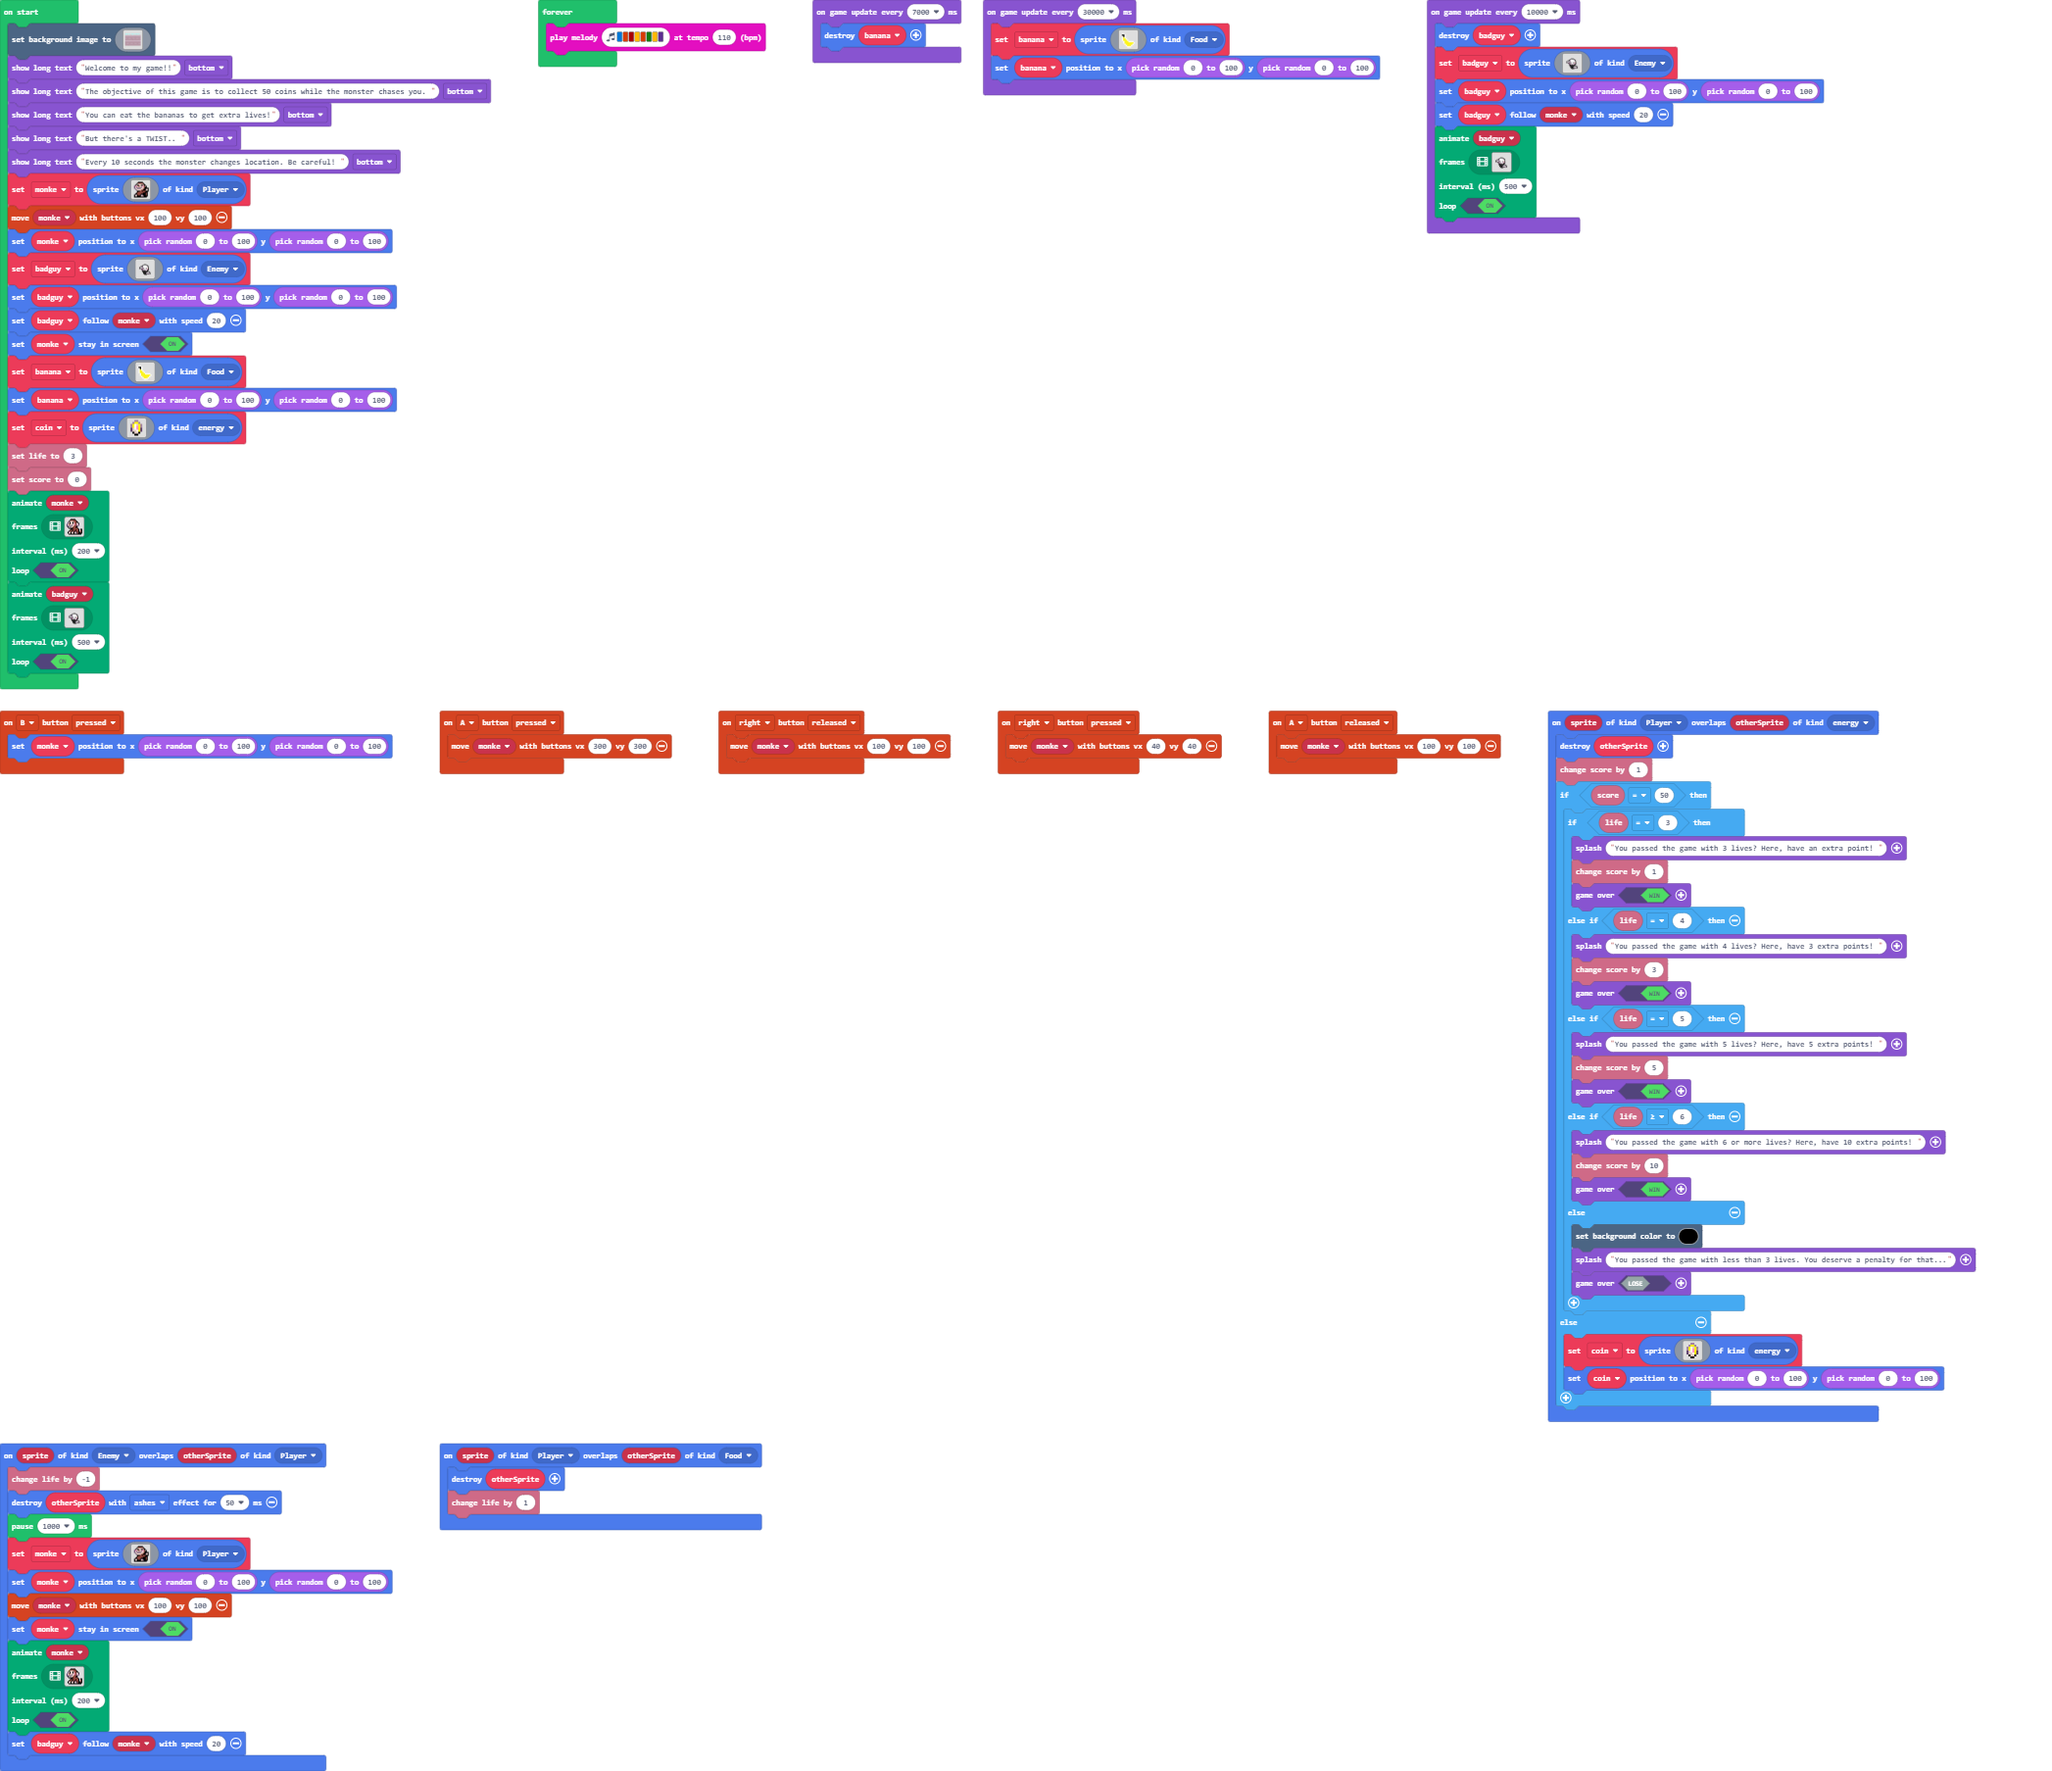
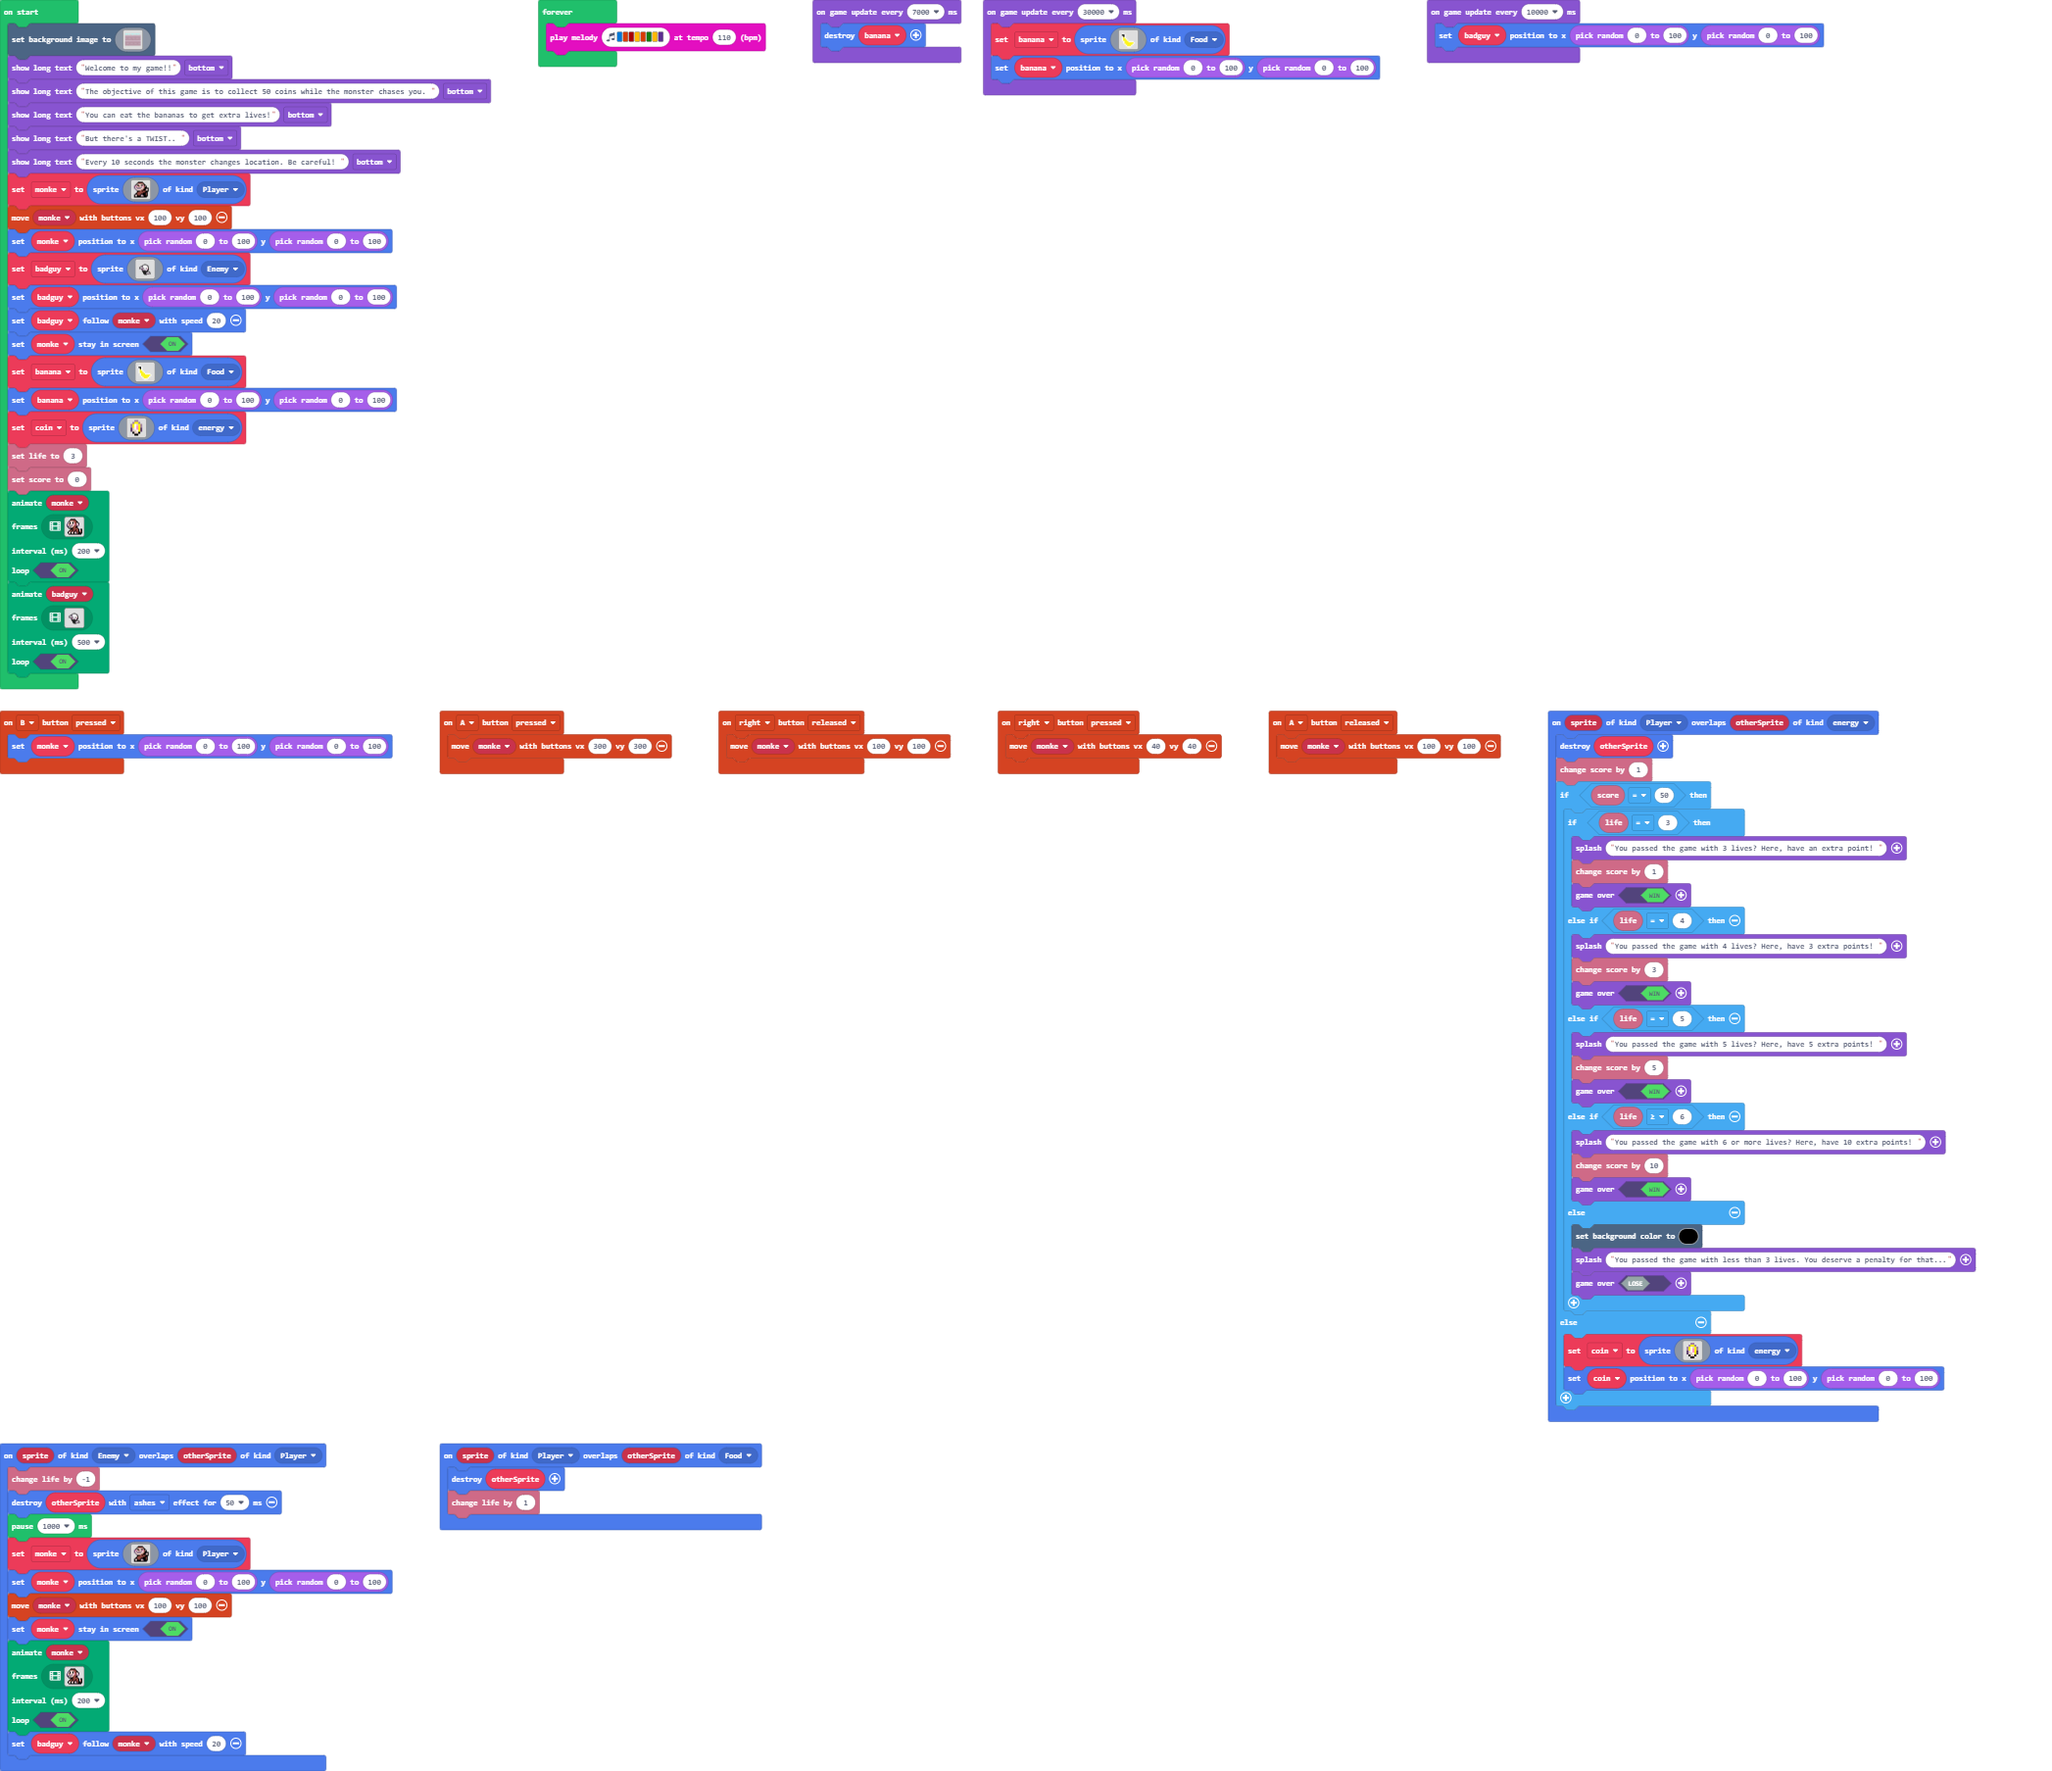
Update main.blocks, main.ts

Changed region(s): [[0.6829, 0.0, 0.9002, 0.155]]

diff --git a/main.ts b/main.ts
@@ -638,139 +638,5 @@ game.onUpdateInterval(30000, function () {
     banana.setPosition(randint(0, 100), randint(0, 100))
 })
 game.onUpdateInterval(10000, function () {
-    badguy.destroy()
-    badguy = sprites.create(img`
-        ........................
-        ........................
-        ........................
-        ........................
-        ........................
-        ..........ffff..........
-        ........ff1111ff........
-        .......fb111111bf.......
-        .....fffc1111111f.......
-        ...fc111cd1111111f......
-        ...f1b1b1b1111dddf......
-        ...fbfbffcf11fcddf......
-        ......f3311111133f......
-        .......ccbdb1b1fcf......
-        .......fffbfbfdff.......
-        ........ffffffff........
-        ........fffffffffff.....
-        .........fffffc111cf....
-        .........fffff1b1b1f....
-        ..........ffffbfbfbf....
-        ...........ffff.........
-        ........................
-        ........................
-        ........................
-        `, SpriteKind.Enemy)
     badguy.setPosition(randint(0, 100), randint(0, 100))
-    badguy.follow(monke, 20)
-    animation.runImageAnimation(
-    badguy,
-    [img`
-        ........................
-        ........................
-        ........................
-        ........................
-        ........................
-        ..........ffff..........
-        ........ff1111ff........
-        .......fb111111bf.......
-        .....fffc1111111f.......
-        ...fc111cd1111111f......
-        ...f1b1b1b1111dddf......
-        ...fbfbffcf11fcddf......
-        ......f3311111133f......
-        .......ccbdb1b1fcf......
-        .......fffbfbfdff.......
-        ........ffffffff........
-        ........fffffffffff.....
-        .........fffffc111cf....
-        .........fffff1b1b1f....
-        ..........ffffbfbfbf....
-        ...........ffff.........
-        ........................
-        ........................
-        ........................
-        `,img`
-        ........................
-        ........................
-        ........................
-        ........................
-        ........................
-        ..........ffff..........
-        ........ff1111ff........
-        .......fb111111bf.......
-        .......f11111111f.......
-        ......fd11111111df......
-        ....7.fd11111111df......
-        ...7..fd11111111df......
-        ...7..fd11111111df......
-        ...7..fddd1111dddff.....
-        ...77.fbdbfddfbdbfcf....
-        ...777f33cf11fc33fbf....
-        ....777ffbdb1bdffcf.....
-        ....fcb1bcffffff........
-        ....f1c1c1ffffff........
-        ....fdfdfdfffff.........
-        .....f.f.f..............
-        ........................
-        ........................
-        ........................
-        `,img`
-        ........................
-        ........................
-        ........................
-        ........................
-        ..........ffff..........
-        ........ff1111ff........
-        .......fb111111bf.......
-        .......f11111111f.......
-        ......fd111111111f......
-        ......fd11111111df......
-        ......fd11111111df......
-        ......fcdd1111ddcff.....
-        .......fbcf11fcbfbbf....
-        .......33bdb1bd33ff.....
-        ........fcbfbfdf........
-        ........ffffffff........
-        ......ffffffffff........
-        .....fcb1bcffff.........
-        ......ffbff.............
-        ........................
-        ........................
-        ........................
-        ........................
-        ........................
-        `,img`
-        ........................
-        ........................
-        ........................
-        ........................
-        ..........ffff..........
-        ........ff1111ff........
-        .......fb111111bf.......
-        .......f11111111f.......
-        ......fd11111111df......
-        ......fdd111111ddf......
-        ......fbdd1111dddf......
-        ......fcdbfddfbdbf......
-        ......f33cf11fc33ff.....
-        .......ffb1111bcfbcf....
-        ........fcdb1bdfbbbf....
-        .......ffffffffffcf.....
-        .....fcb1bcfffff........
-        .....f1b1b1ffff.........
-        ......ffbff.............
-        ........................
-        ........................
-        ........................
-        ........................
-        ........................
-        `],
-    500,
-    true
-    )
 })
